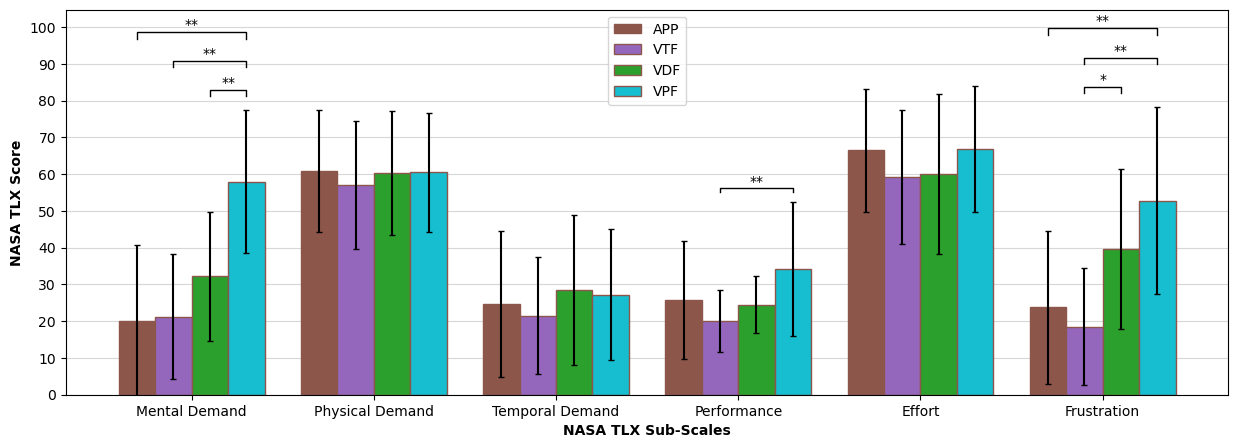
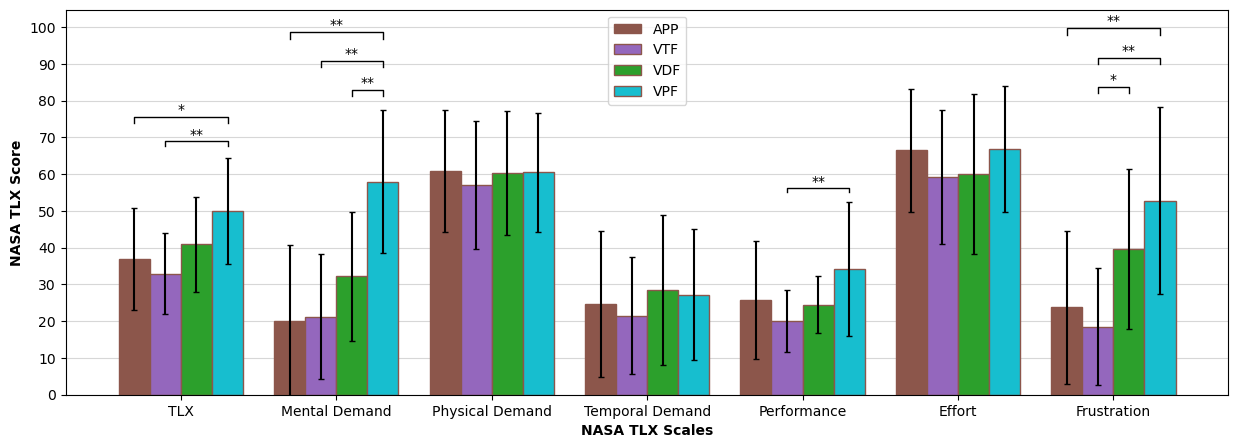
Updated TLX plot to show the full TLX as well

diff --git a/Plotting/source/tlx.py b/Plotting/source/tlx.py
@@ -38,15 +38,15 @@ for condition in data:
     allstdevs.append(statistics.stdev(condition))
 
 # split the mean and stdev arrays
-submeans = np.array_split(allmeans, 6)
-substdevs = np.array_split(allstdevs, 6)
+submeans = np.array_split(allmeans, 7)
+substdevs = np.array_split(allstdevs, 7)
 
 # sort the arrays to be grouped per condition
 means = [list(x) for x in zip(*submeans)]
 stdevs = [list(x) for x in zip(*substdevs)]
 
 # make labels, a color list and legend for each of the conditions
-labels = ["Mental Demand", "Physical Demand", "Temporal Demand", "Performance", "Effort", "Frustration"]
+labels = ["TLX", "Mental Demand", "Physical Demand", "Temporal Demand", "Performance", "Effort", "Frustration"]
 condcolors = ["tab:brown", "tab:purple", "tab:green", "tab:cyan"] # tab:gray for VCF
 legend = ["APP", "VTF", "VDF", "VPF"]
 
@@ -60,16 +60,18 @@ fig, ax = plt.subplots(figsize=(15, 5))
 
 # annotate barplot with significance lines 
 maxmeans = []
-for i in range(6):
+for i in range(7):
     maxmeans.append(max(submeans[i]) + substdevs[i][np.argmax(submeans[i])])
 
-annotate_significance(ax, barpos[2][0], barpos[3][0], maxmeans[0] + (maxmeans[0] * 0.05), "**") 
-annotate_significance(ax, barpos[1][0], barpos[3][0], maxmeans[0] + (maxmeans[0] * 0.15), "**") 
-annotate_significance(ax, barpos[0][0], barpos[3][0], maxmeans[0] + (maxmeans[0] * 0.25), "**") 
-annotate_significance(ax, barpos[1][3], barpos[3][3], maxmeans[3] + (maxmeans[3] * 0.05), "**") 
-annotate_significance(ax, barpos[1][5], barpos[2][5], maxmeans[5] + (maxmeans[5] * 0.05), "*") 
-annotate_significance(ax, barpos[1][5], barpos[3][5], maxmeans[5] + (maxmeans[5] * 0.15), "**") 
-annotate_significance(ax, barpos[0][5], barpos[3][5], maxmeans[5] + (maxmeans[5] * 0.25), "**") 
+annotate_significance(ax, barpos[1][0], barpos[3][0], maxmeans[0] + (maxmeans[0] * 0.05), "**")
+annotate_significance(ax, barpos[0][0], barpos[3][0], maxmeans[0] + (maxmeans[0] * 0.15), "*")
+annotate_significance(ax, barpos[2][1], barpos[3][1], maxmeans[1] + (maxmeans[1] * 0.05), "**") 
+annotate_significance(ax, barpos[1][1], barpos[3][1], maxmeans[1] + (maxmeans[1] * 0.15), "**") 
+annotate_significance(ax, barpos[0][1], barpos[3][1], maxmeans[1] + (maxmeans[1] * 0.25), "**") 
+annotate_significance(ax, barpos[1][4], barpos[3][4], maxmeans[4] + (maxmeans[4] * 0.05), "**") 
+annotate_significance(ax, barpos[1][6], barpos[2][6], maxmeans[6] + (maxmeans[6] * 0.05), "*") 
+annotate_significance(ax, barpos[1][6], barpos[3][6], maxmeans[6] + (maxmeans[6] * 0.15), "**") 
+annotate_significance(ax, barpos[0][6], barpos[3][6], maxmeans[6] + (maxmeans[6] * 0.25), "**") 
  
 # generate barplots
 for i in range(4):
@@ -85,9 +87,9 @@ ax.set_ylabel("NASA TLX Score", weight="bold")
 
 ax.set_xticks(x)
 ax.set_xticklabels(labels)
-ax.set_xlabel("NASA TLX Sub-Scales", weight="bold")
+ax.set_xlabel("NASA TLX Scales", weight="bold")
 
-ax.legend()
+ax.legend(loc=9)
 
 # save and show the plot!
 name = "TLX.png"
